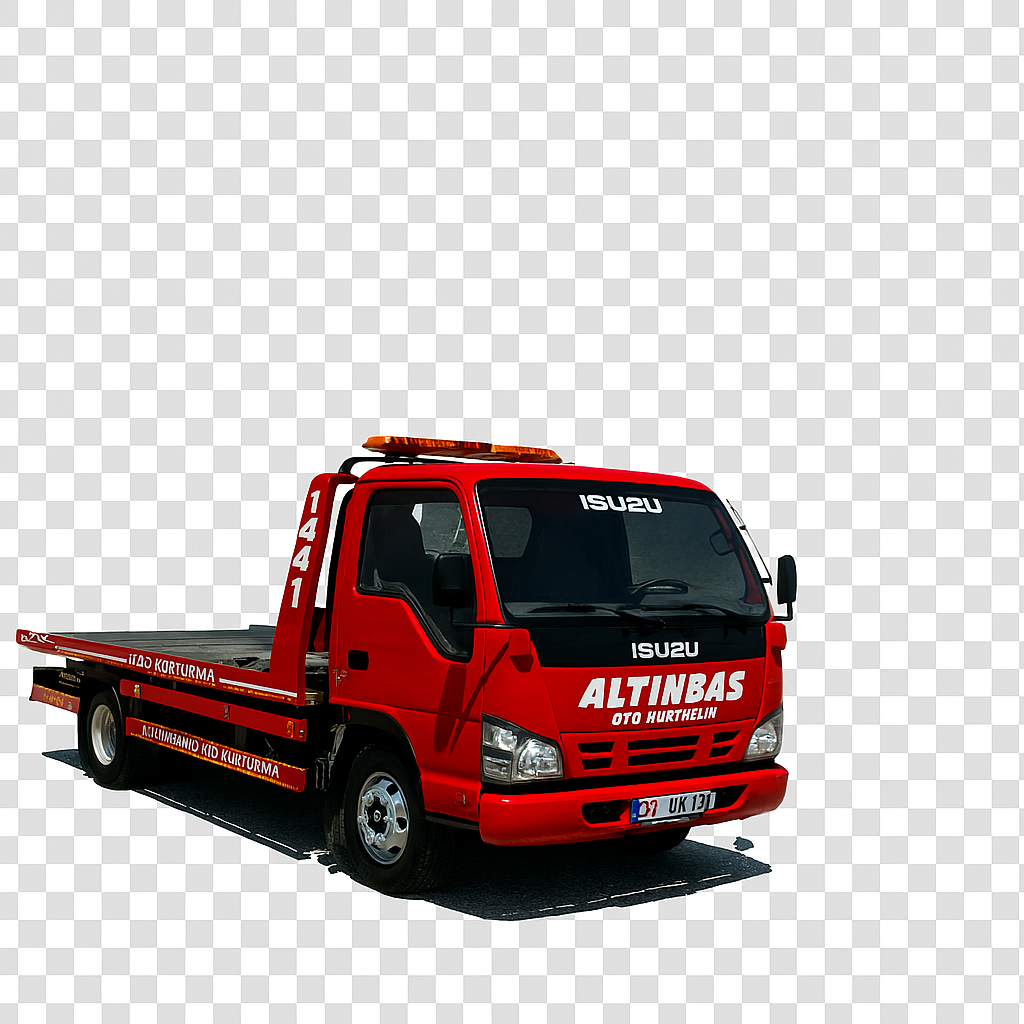
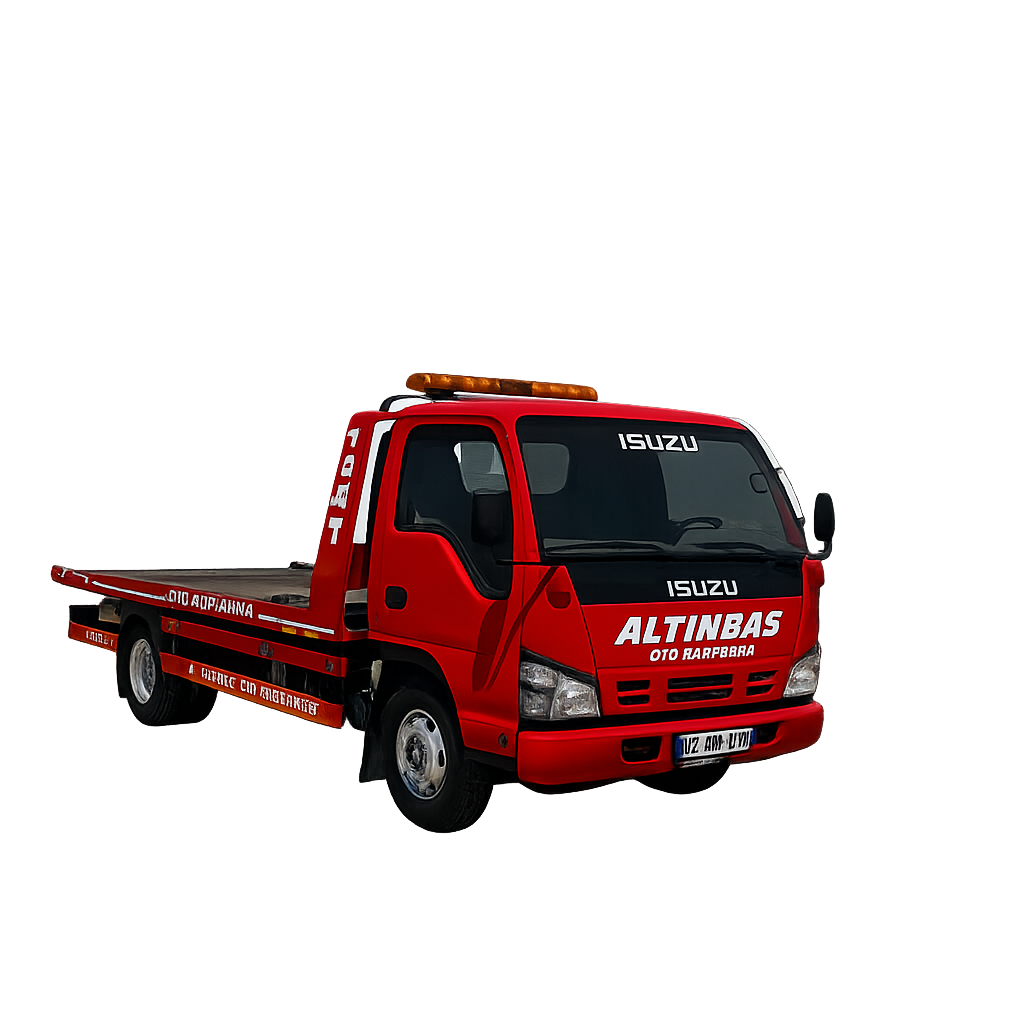
update

diff --git a/index.html b/index.html
@@ -55,303 +55,119 @@ Nizip kiralık manlift
 
     <div class="menu">
         <button class="active" onclick="showContent(0)">Yol Yardım</button>
-        <!-- <button onclick="showContent(1)">Sepetli Platform</button>
-        <button onclick="showContent(2)">Forklift</button> -->
-        <button onclick="showContent(3)">Galeri</button>
-        <button onclick="showContent(4)">İletişim</button>
+        <button onclick="showContent(1)">Galeri</button>
+        <button onclick="showContent(2)">İletişim</button>
     </div>
 
     <div class="content active" id="content-0">
         <div id="carousel1" class="carousel slide" data-bs-ride="carousel">
             <div class="carousel-inner">
                 <div class="carousel-item active">
-                    <img src="manlift.png" class="d-block" alt="Manlift">
+                    <img src="galeri01.png" class="d-block" alt="Manlift">
                 </div>
                 <div class="carousel-item">
-                    <img src="manlift.png" class="d-block" alt="Manlift">
+                    <img src="galeri01.png" class="d-block" alt="Manlift">
                 </div>
             </div>
         </div>
-        <p class="text-start black"><a href="#11">1. Manlift Kiralama</a>
-        </p>
-        <p class="text-start"><a href="#11.1">1.1 Geniş Araç Filosu:</a></p>
-        <p class="text-start"><a href="#11.2">1.2 Uzman Ekibimiz:</a></p>
-        <p class="text-start"><a href="#11.3">1.3 Esnek Kiralama Süreleri:</a></p>
-        <p class="text-start"><a href="#11.4">1.4 Ekonomik ve Verimli Çözümler:</a></p>
-        <p class="text-start"><a href="#11.5">1.5 Müşteri Odaklı Hizmet Anlayışı:</a></p>
-        <p class="text-start"><a href="#11.6">1.6 Güvenilirlik ve Kalite:</a></p>
-        <p class="text-start"><a href="#11.7">1.7 Hızlı Teslimat ve Kurulum:</a></p>
-        <p class="text-start"><a href="#12">2 Manliftin Bazı Kullanım Alanları</a>
-        </p>
-        <p class="text-start"><a href="#12.1">2.1 İnşaat Sektörü:</a></p>
-        <p class="text-start"><a href="#12.2">2.2 Enerji Sektörü:</a></p>
-        <p class="text-start"><a href="#12.3">2.3 Bakım ve Onarım:</a></p>
 
-        <h1 class="text-start" id="11">Manlift Kiralama</h1>
-        <p class="text-start">
-            Günümüzde birçok sektörde yüksek yerlere erişim ihtiyacı doğmaktadır. İşte bu noktada, manliftler büyük bir
-            öneme sahip olmaktadır. Manliftler, yükseklik gerektiren çalışmalarda kullanılan özel ekipmanlardır ve
-            insanları
-            veya yükleri güvenli bir şekilde yüksek noktalara taşımaya olanak sağlar. Manlift kiralama
-            ihtiyaçlarınızı karşılamak için modern ve güvenli erişim araçlarımız ve uzman ekibimizle hizmetinizdeyiz.
-            Yüksek irtifa işlerinizde bizi tercih ettiğinizde size avantajlar sağlayan birçok neden
-            sunuyoruz. İşte manlift kiralama hizmetiyle ilgili avantajları:
-        </p>
-        <p class="text-start" id="11.1"><strong>Geniş Araç Filosu:</strong>
-            Farklı yükseklik ve taşıma kapasitelerine sahip geniş bir araç filosuna sahibiz.
-            İhtiyaçlarınıza en uygun manlifti seçmenize yardımcı olmak için farklı modeller ve boyutlar sunuyoruz. Her
-            türlü işinizi sorunsuz bir şekilde tamamlayabilmeniz için en son teknolojiye sahip ve bakımlı araçlarımızı
-            kullanıyoruz.
-        </p>
-        <p class="text-start" id="11.2">
-            <strong>Uzman Ekibimiz:</strong>
-            Firmamızın manlift kiralama hizmeti, uzman ve deneyimli
-            bir ekiple desteklenir. Eğitimli operatörlerimiz, manliftin güvenli bir şekilde kullanılmasını sağlar ve
-            projenizin her aşamasında size yardımcı olurlar. İş güvenliğine öncelik verirken, zamanınızı ve
-            kaynaklarınızı en verimli şekilde kullanmanıza yardımcı olmak için her adımda sizinle iletişim halindeyiz.
-        </p>
-        <p class="text-start" id="11.3">
-            <strong>Esnek Kiralama Süreleri:</strong>
-            Vinç kiralama firması olarak, projenizin gereksinimlerine uygun esnek kiralama süreleri sunuyoruz. İster
-            kısa vadeli bir proje için olsun, ister uzun vadeli bir iş için olsun, sizin ihtiyaçlarınıza en uygun çözümü
-            bulmak için esneklik sağlıyoruz. Böylece, projenizin süresine göre kiralama süresini belirleyebilir ve
-            bütçenizi optimize edebilirsiniz.
-        </p>
-        <p class="text-start" id="11.4"><strong>Ekonomik ve Verimli Çözümler:</strong>Manlift kiralama hizmetimiz,
-            maliyet etkin
-            ve verimli çözümler sunar. Yüksek maliyetli bir manlift satın almak yerine, ihtiyacınıza göre kiralama
-            yaparak tasarruf edebilirsiniz. Ayrıca, düzenli bakımı yapılan ve yüksek performans sağlayan araçlar
-            sunarak, projelerinizi
-            zamanında tamamlamanıza yardımcı oluruz.</p>
-        <p class="text-start" id="11.5"><strong>Müşteri Odaklı Hizmet Anlayışı:</strong>Müşteri memnuniyetine önem
-            veriyoruz ve
-            hizmetlerimizi müşteri odaklı bir yaklaşımla sunuyoruz. İşinizi en iyi şekilde tamamlamanız için
-            ihtiyaçlarınızı anlamak, hızlı ve etkili çözümler sunmak önceliğimizdir. Sizin için en uygun manlifti
-            seçerken, bütçenizi, işinizi ve süreçlerinizi dikkate alıyoruz. Ayrıca, 7/24 destek hattımızla sizin
-            herhangi bir sorununuzda yanınızda olmayı taahhüt ediyoruz.
-        </p>
-        <p class="text-start" id="11.6"><strong>Güvenilirlik ve Kalite:</strong>Vinç kiralama hizmeti veren bir firma
-            olarak,
-            güvenilirlik ve kaliteye büyük önem veriyoruz. Tüm araçlarımız, yüksek standartlara uygun olarak düzenli
-            olarak kontrol edilir ve bakımı yapılır. Güvenli ve sorunsuz bir çalışma ortamı sağlamak için en son
-            teknolojiye sahip manliftleri sunuyoruz. Böylece, işlerinizi güvenle yürütebilir ve zamandan tasarruf
-            edebilirsiniz.</p>
-        <p class="text-start" id="11.7"><strong>Hızlı Teslimat ve Kurulum:</strong>İşlerinizin zamanında tamamlanması
-            için hızlı
-            teslimat ve kurulum hizmeti sunuyoruz. Talep ettiğiniz manlifti istediğiniz yere en kısa sürede getirerek
-            işlerinizin aksamadan ilerlemesini sağlıyoruz. Profesyonel ekiplerimiz, manliftin kurulumunu hızlı ve
-            güvenli bir şekilde gerçekleştirir ve size teslim eder. Böylece, projelerinizde zamanında ilerleyebilir ve
-            programınızı aksatmadan çalışmalarınızı sürdürebilirsiniz.</p>
-        <h1 class="text-start" id="12">Manliftin Bazı Kullanım Alanları</h1>
-        <p class="text-start" id="12.1"><strong>İnşaat Sektörü:</strong>İnşaat projelerinde yüksek noktalara erişim
-            sağlamak,
-            malzemeleri yerleştirmek veya yapının bakımını yapmak için manliftler değerli bir araçtır. İnşaat
-            sahalarında manlift kiralama hizmetleri, verimliliği artırırken aynı zamanda iş güvenliğini de sağlar.</p>
-        <p class="text-start" id="12.2"><strong>Enerji Sektörü:</strong> Elektrik hatları, aydınlatma sistemleri veya
-            güneş
-            panelleri gibi enerji projelerrını gerçekleştiren şirketler için manlift kiralama hizmetleri büyük bir öneme
-            sahiptir. Bu sektörlerde güvenli ve etkili bir şekilde çalışabilmek için manliftler, hızlı ve kolay erişim
-            sağlamaktadır.</p>
-        <p class="text-start" id="12.3"><strong>Bakım ve Onarım:</strong>Yüksek noktalarda bakım ve onarım çalışmaları
-            yapmak,
-            genellikle zorlu ve riskli olabilir. Manliftler, bu tür çalışmalarda güvenli ve etkin bir şekilde
-            kullanılabilir. Binaların dış cephe temizliği, tesisat bakımı veya endüstriyel ekipmanların tamiri gibi
-            işlerde manlift kiralama hizmetleri işleri kolaylaştırır ve güvenliği sağlar.</p>
-        <p class="text-start" id=""> Etkinlikler ve Festivaller: Konserler, spor etkinlikleri, festivaller ve diğer
-            büyük
-            etkinliklerde sahne kurulumu,</p>
-        <p class="text-start" id="">Eğer ihtiyaçlarınızı karşılamak ve projelerinizi güvenli bir şekilde gerçekleştirmek
-            için
-            güvenilir bir çözüm arıyorsanız, Manlift Kiralama Firması olarak Manlift Kiralama hizmetlerinden
-            yararlanabilirsiniz. Uzman ekibimiz ve güçlü makinelerimizle, projelerinizin gereksinimlerine uygun çözümler
-            sunmak için buradayız.
-            Firmamız, sektördeki deneyimi ve kalitesiyle öne çıkmaktadır. Manlift Kiralama hizmetimizle size en iyi
-            hizmeti
-            sunmak için her zaman buradayız. Siz de firmamızın güvenilir ve profesyonel hizmetlerinden yararlanmak için
-            bugün bizimle iletişime geçebilirsiniz.</p>
+        <div>
+            <h1>
+                Altınbaş Yol Yardım – Profesyonel Araç Taşıma ve Kiralama Hizmeti
+            </h1>
+            <p>
+                İster arıza, ister kaza durumu olsun; ister şehir içi, ister şehirler arası taşıma ihtiyacı...
+                Altınbaş Yol Yardım olarak, tam donanımlı Isuzu Flatbed Çekicimiz ile güvenli, hızlı ve profesyonel
+                hizmet
+                sunuyoruz.
+            </p>
+            <h1>
+                ✅ Platformlu Taşıma Avantajı:
+            </h1>
+            <p>
+                Aracınızın tüm tekerlekleri sabit platformda taşındığı için sürtünme, çekme veya ek hasar riski ortadan
+                kalkar.
+            </p>
+            <h1>
+                ✅ Hızlı Yükleme ve Güvenli Teslimat:
+            </h1>
+            <p>
+                Hidrolik sistem sayesinde aracınız hızlıca yüklenir ve en güvenli şekilde hedef noktaya ulaştırılır.
+            </p>
+            <h1>
+                ✅ Her Türlü Araç Taşımaya Uygun:
+            </h1>
+            <p>
+                Binek araçlar, ticari araçlar, hafif ticari araçlar ve özel spor arabalar için ideal taşıma sağlar.
+            </p>
+            <h1>
+                ✅ 7/24 Hizmet:
+            </h1>
+            <p>
+                Acil yol yardımı ve taşıma talepleriniz için günün her saati hizmetinizdeyiz.
+            </p>
+            <h1>
+                ✅ Sigortalı Taşıma:
+            </h1>
+            <p>
+                Taşıma süreci boyunca aracınız güvence altındadır. Bizimle çalışırken gözünüz arkada kalmaz.
+            </p>
+            <h1>
+                ✅ Şehir İçi ve Şehirler Arası Taşıma:
+            </h1>
+            <p>
+                İster kısa mesafe, ister uzun mesafe olsun, her türlü taşıma operasyonunu eksiksiz gerçekleştiriyoruz.
+            </p>
+            <h1>
+                Neden Altınbaş Yol Yardım?
+            </h1>
+            <p>
+                Profesyonel ekip
+            </p>
+            <p>
+                Güvenilir hizmet
+            </p>
+            <p>
+                Uygun fiyatlar
+            </p>
+            <p>
+                Modern araç filosu
+            </p>
+            <p>
+                📞 Hemen İletişime Geçin!
+            </p>
+            <p>
+                Telefon:
+                <a href="tel:+905418708837" target="_blank">
+                    0541 870 88 37
+                </a>
+            </p>
+            <p>
+                WhatsApp:
+                <a href="https://wa.me/+905418708837" target="_blank">
+                    0541 870 88 37
+                </a>
+            </p>
+        </div>
     </div>
 
     <div class="content" id="content-1">
-        <div id="carousel2" class="carousel slide" data-bs-ride="carousel">
-            <div class="carousel-inner">
-                <div class="carousel-item active">
-                    <img src="vinc.png" class="d-block" alt="Sepetli Vinç">
-                </div>
-                <div class="carousel-item">
-                    <img src="vinc2.jpg" class="d-block" alt="Sepetli Vinç">
-                </div>
-            </div>
-        </div>
-        <p class="text-start"><a href="#21">1. Sepetli Platform</a>
-        </p>
-        <p class="text-start"><a href="#22">2. Sepetli Platform Nerelerde Kullanılır?</a></p>
-        <p class="text-start"><a href="#23">3. Sepetli Platformun Önemi</a></p>
-        <p class="text-start"><a href="#24">4. Sepetli Platform Bakımı</a></p>
-
-        <h1 class="text-start" id="21">
-            1. Sepetli Platform
-        </h1>
-        <p class="text-start">
-            Günümüzde sepetli platform çeşitli sektörlerde kullanılmaktadır. Bu iş makinelerinin bu kadar çok tercih
-            edilmesindeki en temel sebep, çalışanlara sağlamış olduğu avantajlardır. Sepetli platform, kullandığı
-            alanlarda çalışanlara büyük katkılar sağlamaktadır. Sepetli platform kullanarak hem iş gücünden kısarak
-            maliyet düşürebilir, hem de işlerinizi kısa sürede halledebilirsiniz. Bunları ancak sepetli platformlar
-            sayesinde gerçekleştirebilirsiniz.
-        </p>
-        <h1 class="text-start" id="22">
-            2. Sepetli Platform Nerelerde Kullanılır?
-        </h1>
-        <p class="text-start">
-            İnşaat için eşya, ev ya da dükkân taşırken, sepetli platformlara ihtiyaç duyulmaktadır. İhtiyaca göre her
-            alanda kullanılabilen sepetli platformlar iş makineleri olarak bilinmektedir. Makinenin sepetli olması
-            çalışılan
-            alanlarda büyük kolaylıklar sağlamaktadır. 20 metre il 70 metre arasında yükseklik çeşitlikleri bulunan
-            sepetli platformlar farklı alanlarda kullanılmaya uygun bir şekilde üretilmiştir. Sepetli vinç adıyla da
-            bilinen sepetli platformlar küçük boyutları, verimli iş yapabilmesi ve kolay ulaşılabilir olması sebebiyle
-            genellikle inşaat alanlarında tercih edilmektedir. Bunun dışında enerji nakil hattı ve itfaiyeciler de bazı
-            durumlar sepetli platformları tercih edebilmektedir. Güvenlik, maliyet ve zaman açısından da oldukça
-            avantajlı olan sepetli platformlar daha öncede bahsettiğimiz gibi daha çok inşaat alanlarında
-            kullanılmaktadır. İşçilerin can güvenliğini sağlayan bu makineler genellikle kiralanmaktadır.
-        </p>
-        <h1 class="text-start" id="23">
-            3. Sepetli Platformun Önemi
-        </h1>
-        <p class="text-start">
-            Her iş dalında olduğu gibi, sepetli platformlarda da işçi sağlığı son derece önemli bir konudur. İstenmeyen
-            kazaların inşaat alanında ölümle sonuçlanabilmesi sebebiyle, sepetli vinç (sepetli platform) ile
-            çalışanların sağlığı ve güvenliği ilgili kanunun bölümlerinde belirtilmektedir. Sepetli platformların
-            çalışma esnasında dikkat edilmesi gereken hususlar ya da acil durumda yapılması gerekenler vinç
-            operatörlerinin bilmesi gereken konular arasında yer almaktadır.
-        </p>
-        <h1 class="text-start" id="24">
-            4. Sepetli Platform Bakımı
-        </h1>
-        <p class="text-start">
-            Üretici firma tarafından sepetli platform bakımı düzenli aralıklarla yapılmalıdır. Bunun dışında günlük,
-            haftalık ya da aylık olarak kontrol işlemlerinin yapılması gerekmektedir. Sepetli platformların hidrolik
-            aksağındaki en ufak yağ kaçağı bile, tehlikeli durumların oluşmasına zemin hazırlayabilir. Bu gibi
-            durumların önüne geçmek için bu araçların bakımının kesinlikle ihmal edilmemesi ve düzenli olarak yapılması
-            gerekir.
-            Makine mühendislerinin önderliği ile sepetli platformların bakımı, teknik personeller tarafından
-            yapılmaktadır.
-            Yapılan bakımların düzenli olarak kayıt altına alınması, oluşabilecek ya da oluşa arızaların takibi
-            konusunda önemli olabilmektedir.
-        </p>
-    </div>
-
-    <div class="content" id="content-2">
-        <div id="carousel3" class="carousel slide" data-bs-ride="carousel">
-            <div class="carousel-inner">
-                <div class="carousel-item active">
-                    <img src="forklift.png" class="d-block" alt="Manlift">
-                </div>
-                <div class="carousel-item">
-                    <img src="forklift.png" class="d-block" alt="Manlift">
-                </div>
-            </div>
-        </div>
-        <p class="text-start"><a href="#31">1. Forklift Kiralamanın Avantajları</a>
-        </p>
-        <p class="text-start"><a href="#31.1">1.1 Maliyet:</a></p>
-        <p class="text-start"><a href="#31.2">1.1 Esneklik:</a></p>
-        <p class="text-start"><a href="#31.3">1.2 Bakım ve Onarım:</a></p>
-        <p class="text-start"><a href="#31.4">1.3 Yenilikçi Teknolojiye Erişim:</a></p>
-        <p class="text-start"><a href="#31.5">1.4 Depolama Sorunları:</a></p>
-        <p class="text-start"><a href="#32">2. Forklift Kiralama Özellikleri</a></p>
-        <p class="text-start"><a href="#32.1">2.1 Dizel Forkliftler:</a></p>
-        <p class="text-start"><a href="#32.2">2.2 Elektrikli Forkliftler:</a>
-        <p class="text-start"><a href="#32.3">2.3 LPG Forkliftler:</a></p>
-        <p class="text-start"><a href="#32.4">2.4 Teleskopik Forkliftler:</a></p>
-        <p class="text-start"><a href="#32.5">2.5 Yarı Elektrikli Forkliftler:</a></p>
-
-        <h1 class="text-start" id="31">
-            Forklift Kiralamanın Avantajları
-        </h1>
-        <p class="text-start">
-            Forklift kiralama işletmeler için daha esnek bir seçenek sunar ve maliyetleri azaltırken ihtiyaçlara uygun
-            ekipman temin etme imkanı sağlar. Ancak her işletme için en uygun çözümü belirlemek için spesifik
-            gereksinimler ve maliyet analizi yapılması önemlidir. <br><br>
-            <strong id="31.1">Maliyet:</strong>
-            Forklift satın almak yerine kiralama yapmak, kısa vadeli veya geçici ihtiyaçlar için maliyet açısından daha
-            avantajlı olabilir. Forklift kiralama, satın alma maliyetlerini ve bakım masraflarını ortadan kaldırır.
-            Ayrıca, kiralama maliyetleri genellikle sabit bir aylık ücret şeklinde olabilir, bu da bütçe planlamasını
-            daha kolay hale getirir.<br><br>
-            <strong id="31.2">Esneklik:</strong>
-            İşletmelerin ihtiyaçları zamanla değişebilir. Forklift kiralama, işletmelere taleplerine göre forkliftlerin
-            sayısını ve türünü ayarlamada esneklik sağlar. Örneğin, yoğun bir dönemde daha fazla forklifte ihtiyaç
-            duyarsanız, kiralama şirketi size ek forklift sağlayabilir. İşler yavaşladığında veya projeler
-            tamamlandığında ise kiralama anlaşmasını sonlandırabilirsiniz.<br><br>
-            <strong id="31.3">Bakım ve Onarım:</strong>
-            Bakım ve Onarım: Forkliftlerin bakımı ve onarımı zaman alıcı ve maliyetli olabilir. Forklift kiralama, bu
-            sorumluluğu kiralama şirketine devreder. Kiralama şirketi, forkliftlerin periyodik bakımlarını yapar ve
-            arıza durumunda onarımını gerçekleştirir. Bu şekilde, işletme sahipleri bakım ve onarım süreçleriyle
-            uğraşmak yerine ana faaliyetlerine odaklanabilir.<br><br>
-            <strong id="31.4">Yenilikçi Teknolojiye Erişim:</strong>
-            Forklift kiralama, işletmelerin son teknolojiye sahip forkliftlere erişim sağlamasını sağlar. Kiralama
-            şirketleri genellikle envanterlerini güncel tutar ve yenilenen forkliftleri sunar. Bu şekilde, işletmeler
-            daha verimli, güvenli ve teknolojik olarak gelişmiş ekipmanları kullanabilir.<br><br>
-            <strong id="31.5">Depolama Sorunları:</strong> Forkliftler genellikle büyük ve hacimli makinelerdir. Bu
-            nedenle, satın
-            alma durumunda depolama ve park etme sorunları ortaya çıkabilir. Forklift kiralama, bu sorunu ortadan
-            kaldırır çünkü işletmeler kiralık forkliftleri projenin tamamlandığı zaman geri teslim edebilir ve depolama
-            sorunu yaşamazlar.
-        </p>
-        <h1 class="text-start" id="32">
-            Forklift Kiralama Özellikleri
-        </h1>
-        <p class="text-start">
-            Forklift kiralama işlemleri, işletmelerin geçici olarak forklift ihtiyaçlarını karşılamak için tercih ettiği
-            yaygın bir yöntemdir. Forklift kiralama hizmeti sunan şirketler, çeşitli forklift tipleri ve özellikleriyle
-            hizmet vermektedir. İşte yaygın olarak kullanılan forklift tipleri ve bazı özellikleri:<br><br>
-            <strong id="32.1">Dizel Forkliftler:</strong>
-            Dizel forkliftler, güçlü motorları ve yüksek taşıma kapasiteleriyle bilinir. Genellikle açık alanlarda ve
-            dış mekanlarda kullanılırlar. Dizel forkliftler, yakıt verimliliği ve uzun çalışma süreleri açısından
-            avantaj sağlar. Ancak, dizel forkliftlerin yakıt maliyetleri ve emisyonları daha yüksek olabilir.<br><br>
-            <strong id="32.2">Elektrikli Forkliftler:</strong> Elektrikli forkliftler, sessiz çalışma, sıfır emisyon ve
-            düşük
-            işletme maliyeti gibi avantajlara sahiptir. İç mekanlarda, depolarda veya hassas ortamlarda kullanılmak
-            üzere tasarlanmışlardır. Elektrikli forkliftler, bataryalarının şarj edilmesi gerektiği için belirli bir
-            çalışma süresine sahiptir.<br><br>
-            <strong id="32.3">LPG Forkliftler:</strong>
-            LPG forkliftler, sıvılaştırılmış petrol gazı (LPG) kullanarak çalışır. Hem iç hem de dış mekanlarda
-            kullanılmak üzere uygundur. LPG forkliftler, benzinli forkliftlere kıyasla daha temiz bir yanma sağlar ve
-            dizel forkliftlere göre daha az emisyona sahiptir. Ayrıca, hızlı yakıt ikmal imkanı sunarlar.<br>
-            <strong id="32.4">Teleskopik Forkliftler:</strong> Teleskopik forkliftler, uzatılabilir teleskopik kol
-            yapısı
-            sayesinde yükseklik ve erişim açısından avantaj sağlar. Bu forkliftler genellikle inşaat, tarım ve
-            yükleme/boşaltma gibi alanlarda kullanılır. Uzatılabilir kolları sayesinde daha uzak mesafelerdeki yükleri
-            taşıyabilir ve yüksek alanlara erişim sağlayabilir.<br><br>
-            <strong id="32.5">Yarı Elektrikli Forkliftler:</strong> Yarı elektrikli forkliftler, hem elektrik hem de
-            dizel
-            sistemlerin bir kombinasyonunu kullanır. Bu forkliftlerde, dizel motor yüksek taşıma kapasitesi için
-            kullanılırken, elektrik motoru düşük hızlı ve hassas hareketlerde tercih edilir. Yarı elektrikli
-            forkliftler, yakıt tasarrufu sağlamak isteyen işletmeler için bir seçenek olabilir.<br><br>
-            Bu forklift tipleri, kiralama hizmetleri sunan şirketlerin stoklarında bulunmaktadır. Karahan Vinç olarak
-            sizlere hizmetler sunuyoruz.
-        </p>
-    </div>
-
-    <div class="content" id="content-3">
         <div id="carousel4" class="carousel slide" data-bs-ride="carouse1">
             <div class="carousel-inner">
                 <h1 class="galery">Resim Galerisi</h1>
 
                 <div class="gallery">
-                    <img src="galeri01.jpg" alt="Resim 1">
-                    <img src="galeri02.jpg" alt="Resim 2">
-                    <img src="galeri03.jpg" alt="Resim 3">
-                    <img src="galeri04.jpg" alt="Resim 4">
-                    <img src="galeri05.jpg" alt="Resim 5">
-                    <img src="galeri06.jpg" alt="Resim 6">
-                    <img src="galeri07.jpg" alt="Resim 7">
-                    <img src="galeri08.jpg" alt="Resim 8">
+                    <img src="cekici1.jpg" alt="Resim 1">
+                    <img src="cekici2.jpg" alt="Resim 2">
+                    <img src="galeri01.jpg" alt="Resim 3">
+                    <img src="galeri02.jpg" alt="Resim 4">
                 </div>
             </div>
         </div>
 
     </div>
 
-    <div class="content" id="content-3">
+    <div class="content" id="content-2">
         <div class="contact">
             <h1 class="text-start exo" id="11">İletişim</h1>
             <p class="text-start exo">
